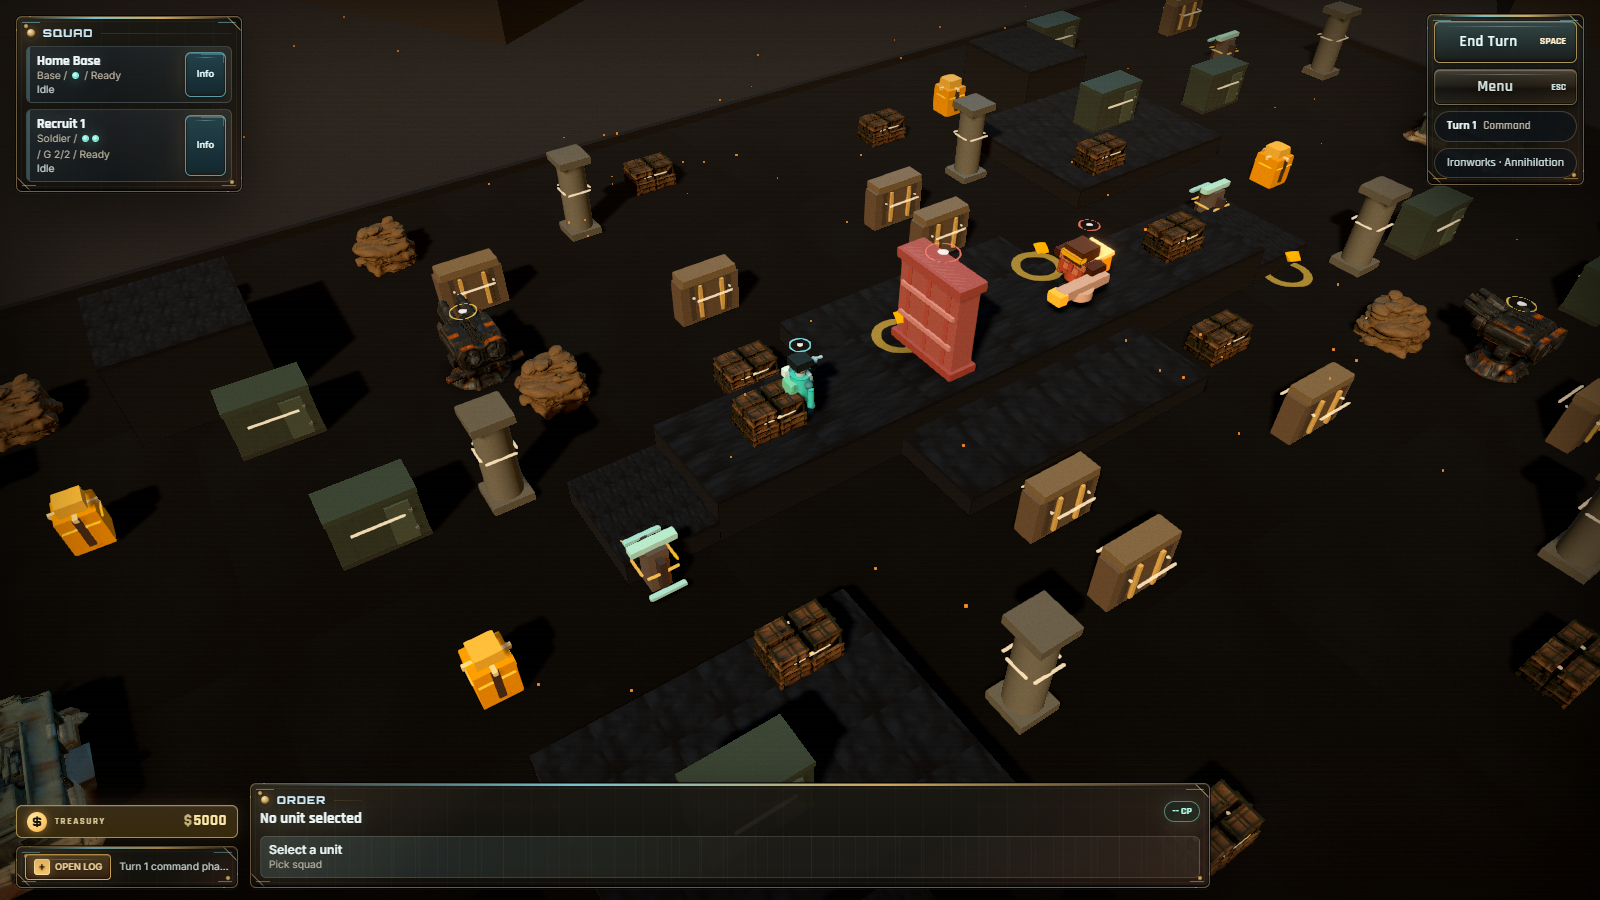
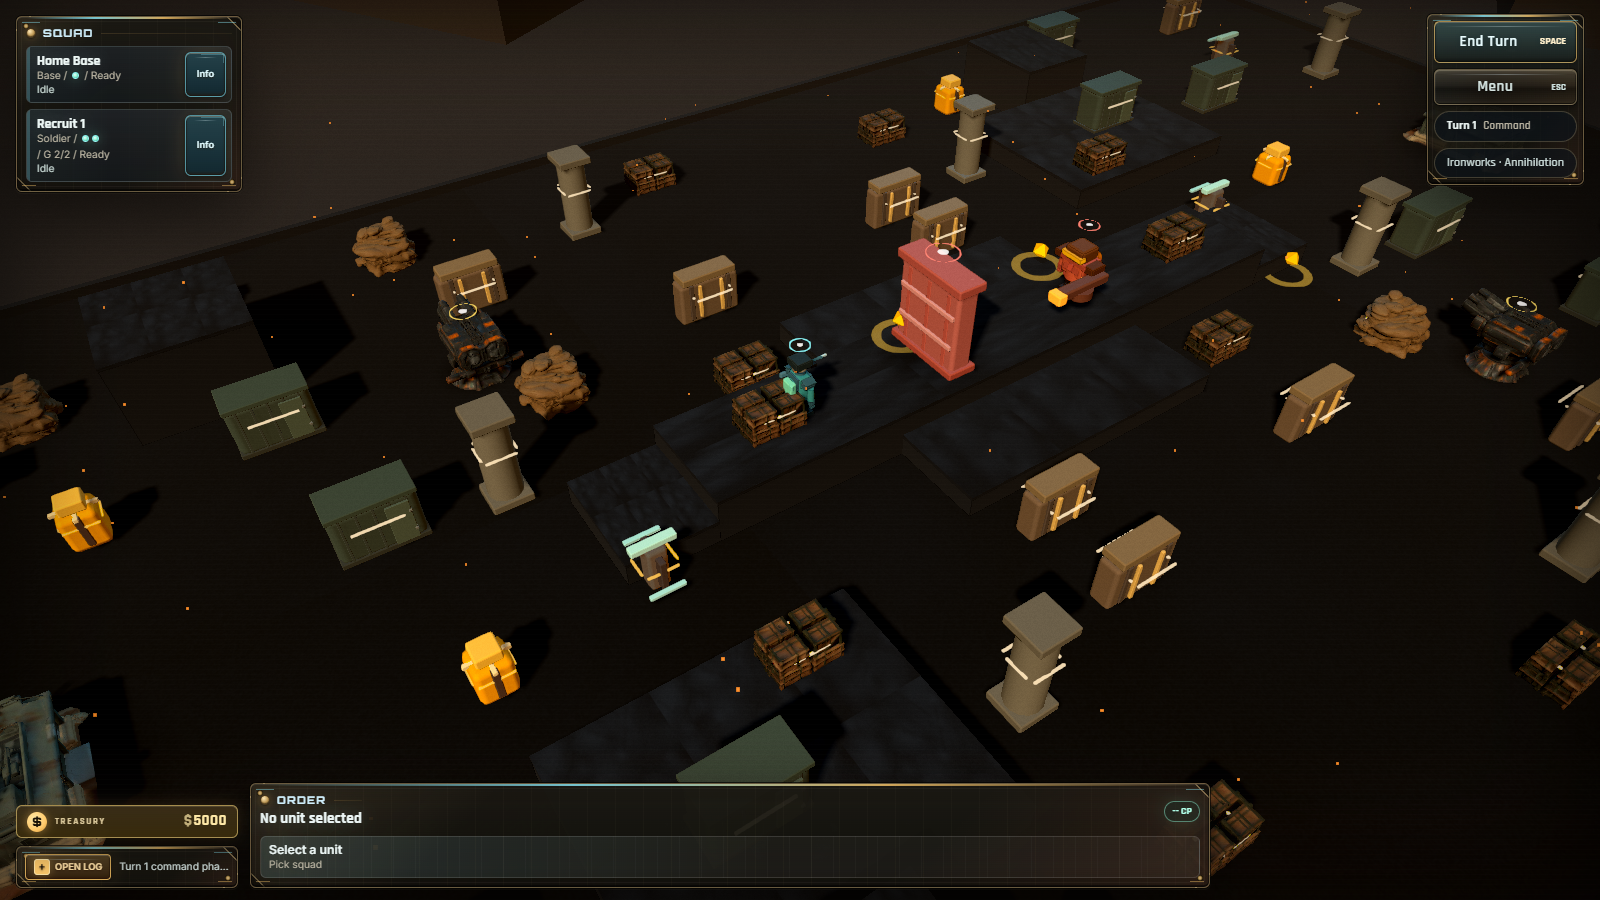
Rebuild the trooper; stop bleaching every weapon; add a portrait sheet
The army looked like toys, and measuring it turned up four causes -- only one of
which was the models themselves.

1. EVERY WEAPON IN THE GAME WAS GLOWING. During the command phase a player unit
   with orders remaining pulses its weapon in the team accent, which is a real
   affordance and stays. But it ran at 0.14 plus up to 0.18 of a bright cyan, and
   the command phase is where the player spends nearly all their time -- so every
   gun in almost every frame was a glowing pale slab, and no amount of modelling
   detail could survive underneath it. Now a third of the strength: still a
   pulse, no longer a lantern.

2. roleColor REPLACED a weapon's colour outright with near-white (0xeaffff for
   the player, 0xffd2bd for the enemy). A rifle, an auto-cannon and a flame
   projector all rendered as the same white plank. Team identity is applied by
   BLENDING toward a team hue now, never by replacement -- readability does not
   depend on it, since a unit already carries a team ring, a team rim and a
   team-blended torso. The core-role blend also came down from 0.42, which had
   been washing whole torsos on broad units.

3. THE PALETTE WAS PLASTIC. Every unit's `trim` -- breastplate, hip plates,
   pauldron rims and most weapons -- was authored as a near-white. A saturated
   pastel body wearing white kit is a toy. Trim is now dark tempered metal tinted
   toward each role's hue, bodies are pulled down into a range where the key
[…]

diff --git a/game/src/render/worldRenderer.ts b/game/src/render/worldRenderer.ts
@@ -535,6 +535,31 @@ export class WorldRenderer {
     return out;
   }
 
+  /**
+   * The colour every part mesh of an actor is ACTUALLY rendering, after role tinting, damage
+   * shading, selection and hit flash. Added because reading the authored colour out of the source
+   * repeatedly failed to explain what the portraits showed -- several rounds were spent reasoning
+   * about a paint pipeline that is easier to just measure.
+   */
+  partColors(entityId: string): { partId: string; color: string; emissive: string; intensity: number }[] {
+    const group = this.groups.get(entityId);
+    if (!group) return [];
+    const out: { partId: string; color: string; emissive: string; intensity: number }[] = [];
+    group.traverse((node) => {
+      const mesh = node as PartMesh;
+      if (!mesh.isMesh || !(mesh.material instanceof THREE.MeshStandardMaterial)) return;
+      const partId = mesh.userData?.partId as string | undefined;
+      if (!partId) return;
+      out.push({
+        partId,
+        color: `#${mesh.material.color.getHexString()}`,
+        emissive: `#${mesh.material.emissive.getHexString()}`,
+        intensity: Number(mesh.material.emissiveIntensity.toFixed(2)),
+      });
+    });
+    return out;
+  }
+
   private disposeAndClear(group: THREE.Group): void {
     disposeSubtree(group);
     group.clear();
@@ -759,9 +784,10 @@ export class WorldRenderer {
     // Slightly darker than the authored ground tone so units (whose palette tops out
     // near-white) keep value separation from the floor under the warm key light.
     const groundTexture = makeGroundTexture(theme);
-    // One texture tile per ~9 world units: large enough that the pattern does not read as tiling
-    // from the tactical camera, small enough to break up the biggest maps.
-    groundTexture.repeat.set(Math.max(2, width / 9), Math.max(2, depth / 9));
+    // One texture tile per ~19 world units. At the previous 9 the repeat was plainly visible as a
+    // regular grid once the camera came in close -- a tiling artefact reads as cheaper than no
+    // texture at all. Bigger tiles put the seam beyond where the eye tracks it.
+    groundTexture.repeat.set(Math.max(1.5, width / 19), Math.max(1.5, depth / 19));
     const floor = new THREE.Mesh(
       new THREE.BoxGeometry(width, 0.18, depth),
       new THREE.MeshStandardMaterial({ map: groundTexture, color: new THREE.Color(theme.ground).multiplyScalar(0.96), roughness: 0.95, metalness: 0.02 })
@@ -1370,20 +1396,44 @@ export class WorldRenderer {
     // black-silhouette test failed even though the detail work was there. So the CHASSIS now
     // varies: a heavy gunner is short and broad, a scout is tall and narrow, a striker leans into
     // the fight. Proportion survives at any zoom, where greebles do not.
-    // Hip girdle + utility belt.
+    // Hip girdle: a belt block with hanging thigh plates, so the waist reads as armour rather
+    // than a step change in the torso cylinder.
     this.box(rig, entity, "legs", [0.4, 0.16, 0.28], [0, 0.5, 0], trimColor, { metalness: 0.16 });
+    for (const side of [-1, 1]) {
+      this.box(rig, entity, "legs", [0.13, 0.19, 0.2], [side * 0.2, 0.44, 0.02], trimColor, { metalness: 0.22, rotation: [0, 0, side * -0.14] });
+    }
+    // Utility belt with pouches. Three small blocks around the front is the cheapest thing that
+    // reads as "kit carried by a person" instead of a smooth mannequin.
     this.box(rig, entity, "body", [0.46, 0.09, 0.32], [0, 0.6, 0], 0x1c2326, { metalness: 0.2 });
-    // Armored torso barrel with an angled chest plate and a glowing core seam.
-    this.cylinder(rig, entity, "body", 0.24, 0.62, [0, 0.84, 0], bodyColor, [0, 0, 0], { emissive: teamGlow, emissiveIntensity: 0.08, radiusBottom: 0.27 });
-    this.box(rig, entity, "body", [0.4, 0.34, 0.1], [0, 0.99, 0.18], trimColor, { metalness: 0.3, rotation: [-0.16, 0, 0] });
+    for (const [x, z] of [[-0.17, 0.16], [0.17, 0.16], [0, 0.185]] as const) {
+      this.box(rig, entity, "body", [0.11, 0.11, 0.08], [x, 0.6, z], 0x2b343a, { metalness: 0.12, bevel: 0.3 });
+    }
+    // Torso: a tapered barrel with a SEPARATE upper chest mass that overhangs it. The overhang is
+    // what gives the trooper a shoulder line and a shadow under the chest -- a single cylinder
+    // reads as a bottle no matter how it is lit.
+    this.cylinder(rig, entity, "body", 0.24, 0.5, [0, 0.8, 0], bodyColor, [0, 0, 0], { emissive: teamGlow, emissiveIntensity: 0.08, radiusBottom: 0.27 });
+    this.box(rig, entity, "body", [0.5, 0.3, 0.34], [0, 1.03, 0], bodyColor, { metalness: 0.14, bevel: 0.26 });
+    // Angled breastplate over it, with a glowing core seam.
+    this.box(rig, entity, "body", [0.42, 0.34, 0.11], [0, 0.99, 0.18], trimColor, { metalness: 0.3, rotation: [-0.16, 0, 0], bevel: 0.24 });
     this.box(rig, entity, "body", [0.12, 0.2, 0.05], [0, 0.98, 0.245], 0x10171a, { emissive: teamGlow, emissiveIntensity: 0.5, rotation: [-0.16, 0, 0] });
-    // Collar ring + shoulder pauldrons hugging the torso line.
+    // Back plate, so the unit has a silhouette from behind too -- half the time the camera is
+    // looking at a trooper's back and there was nothing there.
+    this.box(rig, entity, "body", [0.4, 0.32, 0.08], [0, 1.0, -0.17], trimColor, { metalness: 0.26, rotation: [0.1, 0, 0], bevel: 0.24 });
+    // Gorget + neck column.
     this.cylinder(rig, entity, "body", 0.13, 0.1, [0, 1.2, 0.01], trimColor, [0, 0, 0], { metalness: 0.24 });
-    this.sphere(rig, entity, "body", 0.105, [-0.33, 1.03, 0.02], 0x39434a, { metalness: 0.3, scaleY: 0.78 });
-    this.sphere(rig, entity, "body", 0.105, [0.33, 1.03, 0.02], 0x39434a, { metalness: 0.3, scaleY: 0.78 });
-    // Rounded head with a glowing visor band; each kind's kit supplies its own helmet on top.
-    this.sphere(rig, entity, "head", 0.175, [0, 1.37, 0.02], 0xd8d2bd, { scaleY: 0.95 });
-    this.box(rig, entity, "head", [0.28, 0.085, 0.07], [0, 1.38, 0.17], 0x0c1418, { emissive: teamGlow, emissiveIntensity: 0.55 });
+    this.cylinder(rig, entity, "body", 0.085, 0.12, [0, 1.25, 0.01], 0x1a2226, [0, 0, 0], { metalness: 0.3 });
+    // Pauldrons: angled, bevelled plates with a rim, canted outward off the shoulder. Squashed
+    // spheres read as balls at any distance; a plate with a lit top edge reads as armour.
+    for (const side of [-1, 1]) {
+      this.box(rig, entity, "body", [0.2, 0.17, 0.3], [side * 0.33, 1.05, 0.01], 0x39434a, { metalness: 0.32, rotation: [0, 0, side * -0.3], bevel: 0.3 });
+      this.box(rig, entity, "body", [0.21, 0.05, 0.31], [side * 0.35, 1.14, 0.01], trimColor, { metalness: 0.4, rotation: [0, 0, side * -0.3], bevel: 0.4 });
+    }
+    // Head: skull, a brow ridge over the visor, and a rear comms block. The brow is the single
+    // detail that stops a head reading as a featureless ball.
+    this.sphere(rig, entity, "head", 0.165, [0, 1.37, 0.02], 0xd8d2bd, { scaleY: 0.95 });
+    this.box(rig, entity, "head", [0.3, 0.07, 0.1], [0, 1.44, 0.145], 0x2b343a, { metalness: 0.26, rotation: [-0.24, 0, 0], bevel: 0.35 });
+    this.box(rig, entity, "head", [0.28, 0.085, 0.07], [0, 1.37, 0.17], 0x0c1418, { emissive: teamGlow, emissiveIntensity: 0.55 });
+    this.box(rig, entity, "head", [0.14, 0.11, 0.1], [0, 1.36, -0.15], 0x2b343a, { metalness: 0.24, bevel: 0.3 });
     if (entity.kind === "sniper") {
       // Marksman: extra-long bipod-steadied rifle, a fat glowing scope, and a camo ghillie
       // hood/cloak that ragged-edges the silhouette — clearly the patient long-range shooter.
@@ -1428,8 +1478,9 @@ export class WorldRenderer {
       this.cylinder(rig, entity, "rifle", 0.26, 0.24, [0.54, 0.74, 0.5], 0x14181a, [0, 0, 0], { metalness: 0.3 });
       this.box(rig, entity, "rifle", [0.34, 0.3, 0.22], [0.54, 0.92, 1.12], 0xffca6b, { accent: true, emissive: 0xff7d26, emissiveIntensity: 0.5 });
       for (let i = 0; i < 4; i++) this.box(rig, entity, "rifle", [0.12, 0.09, 0.1], [0.34 - i * 0.07, 0.8 - i * 0.015, 0.18 - i * 0.13], 0xffca6b, { accent: true, emissive: 0xff7d26, emissiveIntensity: 0.3 });
-      this.box(rig, entity, "pack", [0.58, 0.56, 0.42], [0, 0.9, -0.38], 0xffb02e, { accent: true, emissive: 0xff6b1a, emissiveIntensity: 0.5 });
-      this.box(rig, entity, "pack", [0.64, 0.12, 0.48], [0, 1.2, -0.38], 0xfff0bf, { accent: true, emissive: 0xff7d26, emissiveIntensity: 0.6 });
+      this.cylinder(rig, entity, "pack", 0.17, 0.3, [-0.03, 0.95, -0.34], 0xc8761f, [Math.PI / 2, 0, 0], { accent: true, metalness: 0.32 });
+      this.box(rig, entity, "pack", [0.12, 0.1, 0.26], [0.2, 0.95, -0.26], 0x8a5a22, { accent: true, metalness: 0.3, bevel: 0.3 });
+      this.box(rig, entity, "pack", [0.3, 0.08, 0.1], [0, 1.14, -0.3], 0xffb02e, { accent: true, emissive: 0xff7d26, emissiveIntensity: 0.28, bevel: 0.35 });
       this.box(rig, entity, "head", [0.5, 0.46, 0.48], [0, 1.36, 0.0], 0x7a4a2a, { accent: true, metalness: 0.18 });
       this.box(rig, entity, "head", [0.54, 0.14, 0.16], [0, 1.36, 0.22], 0x141819, { accent: true, emissive: 0xffb02e, emissiveIntensity: 0.6 });
     } else if (entity.kind === "mortar") {
@@ -1514,8 +1565,16 @@ export class WorldRenderer {
     } else {
       // Line infantry (soldier): standard bayoneted rifle, a brimmed helmet with a comms
       // bead, chest webbing/pouches and a slung frag — the plain baseline trooper.
-      this.box(rig, entity, "rifle", [0.18, 0.18, 0.9], [0.45, 0.92, 0.28], trimColor);
-      this.box(rig, entity, "rifle", [0.05, 0.05, 0.3], [0.45, 0.96, 0.78], 0xeaffff, { accent: true, metalness: 0.5 });
+      // A rifle, not a plank: receiver, a slimmer barrel with a muzzle device, a magazine
+      // hanging below, a stock behind the grip and a low optic on top. This is the shape the
+      // player sees on the most common unit in the game, so it earns the extra meshes.
+      this.box(rig, entity, "rifle", [0.115, 0.15, 0.52], [0.45, 0.93, 0.2], trimColor, { metalness: 0.34, bevel: 0.22 });
+      this.cylinder(rig, entity, "rifle", 0.032, 0.46, [0.45, 0.95, 0.63], 0x1d2529, [Math.PI / 2, 0, 0], { metalness: 0.44 });
+      this.box(rig, entity, "rifle", [0.07, 0.07, 0.11], [0.45, 0.95, 0.88], 0x11181b, { metalness: 0.5, bevel: 0.3 });
+      this.box(rig, entity, "rifle", [0.075, 0.19, 0.11], [0.45, 0.81, 0.16], 0x232c31, { metalness: 0.3, bevel: 0.26 });
+      this.box(rig, entity, "rifle", [0.09, 0.12, 0.26], [0.45, 0.9, -0.13], 0x2b343a, { metalness: 0.26, bevel: 0.28 });
+      this.box(rig, entity, "rifle", [0.05, 0.06, 0.16], [0.45, 1.03, 0.16], 0x11181b, { metalness: 0.42, bevel: 0.3 });
+      this.box(rig, entity, "rifle", [0.05, 0.05, 0.16], [0.45, 0.96, 0.98], 0xeaffff, { accent: true, metalness: 0.5 });
       this.box(rig, entity, "body", [0.5, 0.12, 0.06], [0, 0.94, 0.2], 0x2c3a30, { accent: true });
       for (const x of [-0.16, 0.16]) this.box(rig, entity, "body", [0.14, 0.18, 0.1], [x, 0.74, 0.2], 0x35463a, { accent: true });
       this.box(rig, entity, "body", [0.12, 0.16, 0.12], [-0.3, 0.66, 0.12], 0x3f5036, { accent: true });
@@ -1529,10 +1588,22 @@ export class WorldRenderer {
     this.box(rig, entity, "pack", [0.1, 0.14, 0.06], [-0.22, 1.04, -0.38], 0xdaf7ff, { emissive: teamGlow, emissiveIntensity: 0.42 });
     // Arms and legs are tagged as limbs so they can swing into a walk cycle while moving.
     // Tapered cylinders with glove/boot caps — same base positions and pivots as before.
-    this.cylinder(rig, entity, "body", 0.075, 0.5, [-0.42, 0.72, 0.02], bodyColor, [0, 0, 0], { radiusBottom: 0.09 }).userData.limb = "arm-l";
-    this.cylinder(rig, entity, "body", 0.075, 0.5, [0.42, 0.72, 0.02], bodyColor, [0, 0, 0], { radiusBottom: 0.09 }).userData.limb = "arm-r";
-    this.sphere(rig, entity, "body", 0.088, [-0.42, 0.46, 0.05], 0x1f282c, { metalness: 0.2 }).userData.limb = "arm-l";
-    this.sphere(rig, entity, "body", 0.088, [0.42, 0.46, 0.05], 0x1f282c, { metalness: 0.2 }).userData.limb = "arm-r";
+    // Arms: upper arm, a bracer at the forearm, and a blocky glove. Every mesh carries the same
+    // limb tag, so they all swing about the shared shoulder pivot as one piece -- the segments are
+    // there for silhouette, not for a second joint.
+    for (const side of [-1, 1]) {
+      const tag = side < 0 ? "arm-l" : "arm-r";
+      this.cylinder(rig, entity, "body", 0.075, 0.34, [side * 0.42, 0.82, 0.02], bodyColor, [0, 0, 0], { radiusBottom: 0.085 }).userData.limb = tag;
+      this.box(rig, entity, "body", [0.14, 0.2, 0.15], [side * 0.42, 0.6, 0.03], 0x2b343a, { metalness: 0.26, bevel: 0.28 }).userData.limb = tag;
+      this.box(rig, entity, "body", [0.12, 0.12, 0.14], [side * 0.42, 0.46, 0.05], 0x1f282c, { metalness: 0.2, bevel: 0.32 }).userData.limb = tag;
+    }
+    // Legs: thigh, a knee plate, and a boot with a raised toe. The knee plate is what breaks the
+    // "two smooth pipes" read, and the toe is what makes a planted foot look planted.
+    for (const side of [-1, 1]) {
+      const tag = side < 0 ? "leg-l" : "leg-r";
+      this.box(rig, entity, "legs", [0.15, 0.14, 0.16], [side * 0.18, 0.3, 0.03], trimColor, { metalness: 0.28, bevel: 0.3 }).userData.limb = tag;
+      this.box(rig, entity, "legs", [0.11, 0.08, 0.12], [side * 0.18, 0.13, 0.06], 0x212b2f, { metalness: 0.2, bevel: 0.3 }).userData.limb = tag;
+    }
     this.cylinder(rig, entity, "legs", 0.095, 0.52, [-0.18, 0.26, 0], 0x162225, [0, 0, 0], { radiusBottom: 0.075 }).userData.limb = "leg-l";
     this.cylinder(rig, entity, "legs", 0.095, 0.52, [0.18, 0.26, 0], 0x162225, [0, 0, 0], { radiusBottom: 0.075 }).userData.limb = "leg-r";
     this.box(rig, entity, "legs", [0.2, 0.11, 0.3], [-0.18, 0.055, 0.07], 0x101516, { metalness: 0.14 }).userData.limb = "leg-l";
@@ -2103,7 +2174,7 @@ export class WorldRenderer {
     const unitGlowColor = entity.team === "enemy" ? TEAMS.enemyGlowDim : TEAMS.playerGlowDim;
     material.emissive.setHex(part.hp > 0 && targetedPart ? 0x4f3000 : part.hp > 0 && selected ? 0x0b3844 : accent ? baseEmissive : unitGlow ? unitGlowColor : coverGlow ? coverGlowColor : baseEmissive);
     material.emissiveIntensity = part.hp > 0
-      ? (mesh.userData.baseEmissiveIntensity as number) + (unitGlow ? 0.14 : 0) + (coverGlow ? 0.18 : 0) + (selected ? 0.58 : 0) + (targetedPart ? 0.72 : targeted ? 0.34 : 0)
+      ? (mesh.userData.baseEmissiveIntensity as number) + (unitGlow ? 0.07 : 0) + (coverGlow ? 0.18 : 0) + (selected ? 0.58 : 0) + (targetedPart ? 0.72 : targeted ? 0.34 : 0)
       : 0;
     // Living idle: standing infantry breathe, their arms + held weapon carry a slow sway, and the
     // torso does a subtle weight-shift — phase-offset per unit so a squad doesn't move in lockstep,
@@ -2122,9 +2193,15 @@ export class WorldRenderer {
         mesh.rotation.z += Math.sin(t * 0.8) * 0.02 * idleW;
       }
     }
+    // "Still has orders left" cue: a player unit with command points remaining carries a slow pulse
+    // on its weapon. This is a real affordance and it stays -- but it used to run at 0.14 plus up
+    // to 0.18 of the team accent, which lit the whole weapon like a lantern. Since the command
+    // phase is where the player spends nearly all their time, that meant EVERY gun in the game was
+    // a glowing pale slab in almost every frame, and no amount of modelling detail survived it.
+    // A third of the strength still reads as a pulse without erasing the metal underneath.
     if (this.commandPhase && entity.team === "player" && entity.status.alive && entity.commandPoints > 0 && part.role === "weapon" && part.hp > 0 && !selected && !targeted) {
       material.emissive.setHex(entity.accent ?? this.playerAccent);
-      material.emissiveIntensity = Math.max(material.emissiveIntensity, 0.14 + (Math.sin(performance.now() * 0.004 + (hash(entity.id) % 63)) + 1) * 0.09);
+      material.emissiveIntensity = Math.max(material.emissiveIntensity, 0.05 + (Math.sin(performance.now() * 0.004 + (hash(entity.id) % 63)) + 1) * 0.03);
     }
     // Elites/bosses wear a burning gold trim so they read as the priority target.
     if (entity.elite && entity.status.alive && part.hp > 0 && !selected && !targeted && flash <= 0) {
@@ -3261,22 +3338,31 @@ function makeProjectileShadow(projectile: Projectile, color: number): THREE.Mesh
   return shadow;
 }
 
+// Team identity is applied by BLENDING toward a team hue, never by replacing a part's authored
+// colour outright.
+//
+// Weapons used to return a flat near-white (0xeaffff player, 0xffd2bd enemy), which threw away
+// every gun's authored gunmetal and turned each one into a pale slab -- a rifle, an auto-cannon and
+// a flame projector all rendered as the same white plank, which is most of why the army looked
+// unfinished no matter how much detail went into the models. Team readability does not depend on
+// it: a unit already carries a team ring, a team emissive rim, and a team-blended torso. Heads got
+// the same treatment for the same reason -- a helmet is authored per role and was being bleached.
 function roleColor(entity: CombatEntity, role: PartRole, fallback: number): number {
   if (entity.team === "enemy" && entity.kind !== "cover") {
-    if (role === "weapon") return 0xffd2bd;
+    if (role === "weapon") return blendHex(fallback, 0xff9c7a, 0.2);
     if (role === "mobility") return 0x211a1b;
-    if (role === "head") return 0xffc5a8;
+    if (role === "head") return blendHex(fallback, 0xffc5a8, 0.3);
     if (role === "utility") return 0xff9c75;
     if (role === "volatile") return 0xff7d38;
     return blendHex(fallback, TEAMS.enemyBlend, 0.68);
   }
   if (entity.team === "player") {
-    if (role === "weapon") return 0xeaffff;
+    if (role === "weapon") return blendHex(fallback, 0x9fdcf0, 0.2);
     if (role === "mobility") return 0x172328;
-    if (role === "head") return 0xf2dfbf;
+    if (role === "head") return blendHex(fallback, 0xf2dfbf, 0.3);
     if (role === "utility") return 0x8ff2d1;
     if (role === "volatile") return 0xffd06a;
-    if (role === "core") return blendHex(fallback, 0x7fe8ff, 0.42);
+    if (role === "core") return blendHex(fallback, 0x6fc4dd, 0.26);
     return blendHex(fallback, 0x5bc6e5, 0.22);
   }
   return fallback;
@@ -3484,20 +3570,32 @@ function infantryBuild(kind: EntityKind): InfantryBuild {
   return { ...DEFAULT_BUILD, ...(INFANTRY_BUILDS[kind] ?? {}) };
 }
 
+// UNIT PALETTE.
+//
+// `trim` is the armour: breastplate, hip plates, pauldron rims, and most weapons. Every entry used
+// to be a near-white (0xffffff, 0xf0fdff, 0xfff0ba...), which is why the roster read as bright
+// plastic toys rather than equipment -- a soldier was a saturated pastel body wearing white kit and
+// carrying a white gun. Trim is now dark tempered metal, tinted a little toward each role's hue so
+// the units still differ head to toe, and the saturated colour is spent only where it identifies
+// the unit: the bodysuit and the signature kit.
+//
+// Bodies are pulled down in value and saturation for the same reason. They still separate cleanly
+// from one another -- the hues are spread right around the wheel -- but they now sit in a range
+// where the key light can put a highlight ON them, which a near-white surface cannot receive.
 function infantryPalette(kind: string): { body: number; trim: number; pack: number } {
   switch (kind) {
-    case "scout": return { body: 0x7fe0a0, trim: 0xeafff0, pack: 0x2f6e4a };
-    case "sniper": return { body: 0x5cc9ff, trim: 0xf0fdff, pack: 0x16486a };
-    case "striker": return { body: 0xd28cff, trim: 0xffffff, pack: 0x4a2b78 };
-    case "heavy": return { body: 0xc06a3a, trim: 0xffd9b0, pack: 0x5a2f18 };
-    case "grenadier": return { body: 0xffb23f, trim: 0xfff0ba, pack: 0x784214 };
-    case "mortar": return { body: 0xe0a64f, trim: 0xfff0c8, pack: 0x6a4a1a };
-    case "medic": return { body: 0xff7f8f, trim: 0xffffff, pack: 0x7a1f2a };
-    case "engineer": return { body: 0xe0c24a, trim: 0xfff6c0, pack: 0x6a5a18 };
-    case "flamer": return { body: 0xff8a4a, trim: 0xffe2c4, pack: 0x8a2f10 };
-    case "droneop": return { body: 0x9fb8d8, trim: 0xf0f6ff, pack: 0x2c4a6a };
-    case "sapper": return { body: 0xd8c06a, trim: 0xfff2c8, pack: 0x5a4a1a };
-    default: return { body: 0x26f0c8, trim: 0xeaffff, pack: 0x1d5f66 };
+    case "scout": return { body: 0x4f8f63, trim: 0x36443c, pack: 0x24503a };
+    case "sniper": return { body: 0x44718c, trim: 0x33414a, pack: 0x1b3a4e };
+    case "striker": return { body: 0x7d51ad, trim: 0x3b3350, pack: 0x39235c };
+    case "heavy": return { body: 0xa05c30, trim: 0x453930, pack: 0x4a2716 };
+    case "grenadier": return { body: 0xba7c2c, trim: 0x4a4030, pack: 0x5c3510 };
+    case "mortar": return { body: 0xa17d3c, trim: 0x46402f, pack: 0x54401a };
+    case "medic": return { body: 0xb85763, trim: 0x4a3a3d, pack: 0x5e2129 };
+    case "engineer": return { body: 0xa89232, trim: 0x474328, pack: 0x54481a };
+    case "flamer": return { body: 0xb86133, trim: 0x4a3a30, pack: 0x6a2812 };
+    case "droneop": return { body: 0x6d8299, trim: 0x3d4550, pack: 0x2c3f52 };
+    case "sapper": return { body: 0x9c8c4c, trim: 0x46422f, pack: 0x4a3f1e };
+    default: return { body: 0x2f8f80, trim: 0x35424a, pack: 0x1d5f66 };
   }
 }
 

diff --git a/game/src/main.ts b/game/src/main.ts
@@ -2170,6 +2170,7 @@ declare global {
       diagnostics(): DiagnosticsReport;
       describeScene(): SceneDescription;
       limbPose(entityId: string): { limb: string; rotX: number; posY: number; posZ: number }[];
+      partColors(entityId: string): { partId: string; color: string; emissive: string; intensity: number }[];
       sceneGraph(): { total: number; topLevel: number };
       setDebugOverlay(on: boolean): boolean;
       // Cosmetic toggles (skin pack + colorblind palette) for screenshot harnesses.
@@ -2248,6 +2249,7 @@ window.__rht = {
   diagnostics: () => runSceneDiagnostics(),
   describeScene: () => buildSceneDescription(),
   limbPose: (entityId: string) => world.limbPose(entityId),
+  partColors: (entityId: string) => world.partColors(entityId),
   sceneGraph: () => ({ total: countSceneObjects(), topLevel: stage.scene.children.length }),
   setDebugOverlay: (on) => { debugOverlay.setEnabled(on); return debugOverlay.isEnabled(); },
   setModelSkin: (skin: string) => setModelSkin(skin),
